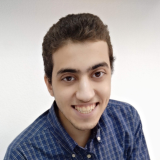
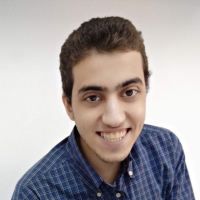
Update profile.png

Changed region(s): [[0.0, 0.0625, 1.0, 1.0]]

diff --git a/css/style.css b/css/style.css
@@ -5,6 +5,7 @@
   font-weight: normal;
   font-style: normal;
 }
+
 /* =======================================================
 *
 * 	Template Style 
@@ -26,6 +27,7 @@ body {
   background-attachment: fixed;
   background-repeat: no-repeat;
 }
+
 @media screen and (max-width: 768px) {
   body {
     background-position: center center;
@@ -39,7 +41,10 @@ a {
   -o-transition: 0.5s;
   transition: 0.5s;
 }
-a:hover, a:active, a:focus {
+
+a:hover,
+a:active,
+a:focus {
   color: #757575;
   outline: none;
 }
@@ -48,7 +53,12 @@ p {
   margin-bottom: 1.5em;
 }
 
-h1, h2, h3, h4, h5, h6 {
+h1,
+h2,
+h3,
+h4,
+h5,
+h6 {
   color: #fff;
   font-family: "Source Sans Pro", Arial, sans-serif;
   font-weight: 400;
@@ -85,6 +95,7 @@ h1, h2, h3, h4, h5, h6 {
   -o-transition: 0.5s;
   transition: 0.5s;
 }
+
 @media screen and (max-width: 768px) {
   #fh5co-main {
     margin: 2em .5em 5em .5em;
@@ -94,6 +105,7 @@ h1, h2, h3, h4, h5, h6 {
 .fh5co-tab-wrap {
   position: relative;
 }
+
 .fh5co-tab-wrap .fh5co-tab-menu {
   list-style: none;
   text-align: center;
@@ -103,11 +115,13 @@ h1, h2, h3, h4, h5, h6 {
   padding: 0;
   margin: 0;
 }
+
 @media screen and (max-width: 768px) {
   .fh5co-tab-wrap .fh5co-tab-menu {
     top: -7px;
   }
 }
+
 .fh5co-tab-wrap .fh5co-tab-menu li {
   display: -moz-inline-stack;
   display: inline-block;
@@ -117,6 +131,7 @@ h1, h2, h3, h4, h5, h6 {
   padding: 0;
   margin: 0;
 }
+
 .fh5co-tab-wrap .fh5co-tab-menu li a {
   padding: 2em 1em 1em 1em;
   position: relative;
@@ -130,6 +145,7 @@ h1, h2, h3, h4, h5, h6 {
   -o-transition: 0.3s;
   transition: 0.3s;
 }
+
 .fh5co-tab-wrap .fh5co-tab-menu li a .icon {
   display: block;
   position: relative;
@@ -139,22 +155,26 @@ h1, h2, h3, h4, h5, h6 {
   -o-transition: 0.3s;
   transition: 0.3s;
 }
+
 .fh5co-tab-wrap .fh5co-tab-menu li a .menu-text {
   display: block;
   -webkit-transition: 0.5s;
   -o-transition: 0.5s;
   transition: 0.5s;
 }
+
 @media screen and (max-width: 768px) {
   .fh5co-tab-wrap .fh5co-tab-menu li a .menu-text {
     display: none;
   }
 }
+
 @media screen and (max-width: 768px) {
   .fh5co-tab-wrap .fh5co-tab-menu li a {
     padding: 1em .5em .5em .5em;
   }
 }
+
 .fh5co-tab-wrap .fh5co-tab-menu li a:after {
   position: absolute;
   content: "";
@@ -174,36 +194,45 @@ h1, h2, h3, h4, h5, h6 {
   -ms-border-radius: 7px;
   border-radius: 7px;
 }
+
 .fh5co-tab-wrap .fh5co-tab-menu li a:hover {
   color: #fff;
   text-decoration: none;
 }
+
 .fh5co-tab-wrap .fh5co-tab-menu li a:hover .icon {
   bottom: 10px;
 }
+
 @media screen and (max-width: 768px) {
   .fh5co-tab-wrap .fh5co-tab-menu li a:hover .icon {
     bottom: 0px;
   }
 }
+
 .fh5co-tab-wrap .fh5co-tab-menu li a:hover:after {
   height: 100%;
 }
+
 .fh5co-tab-wrap .fh5co-tab-menu li.active .icon {
   bottom: 10px;
 }
+
 @media screen and (max-width: 768px) {
   .fh5co-tab-wrap .fh5co-tab-menu li.active .icon {
     bottom: 0px;
   }
 }
-.fh5co-tab-wrap .fh5co-tab-menu li.active > a {
+
+.fh5co-tab-wrap .fh5co-tab-menu li.active>a {
   color: #fff;
   text-decoration: none;
 }
-.fh5co-tab-wrap .fh5co-tab-menu li.active > a:after {
+
+.fh5co-tab-wrap .fh5co-tab-menu li.active>a:after {
   height: 100%;
 }
+
 .fh5co-tab-wrap .fh5co-tab-content {
   padding-left: 4em;
   padding-right: 4em;
@@ -213,22 +242,26 @@ h1, h2, h3, h4, h5, h6 {
   visibility: hidden;
   width: 100%;
 }
+
 @media screen and (max-width: 768px) {
   .fh5co-tab-wrap .fh5co-tab-content {
     padding-left: .5em;
     padding-right: .5em;
   }
 }
+
 .fh5co-tab-wrap .fh5co-tab-content.active {
   opacity: 1;
   visibility: visible;
 }
+
 .fh5co-tab-wrap .fh5co-tab-content .fh5co-content-inner {
   padding: 7em 2em 5em 2em;
   float: left;
   width: 100%;
   position: relative;
 }
+
 @media screen and (max-width: 768px) {
   .fh5co-tab-wrap .fh5co-tab-content .fh5co-content-inner {
     padding: 4em .5em 5em .5em;
@@ -247,32 +280,38 @@ figure {
   padding: 0;
   line-height: .7;
 }
+
 .fh5co-counter .fh5co-number.fh5co-left {
   float: left;
   width: 30%;
 }
+
 @media screen and (max-width: 768px) {
   .fh5co-counter .fh5co-number.fh5co-left {
     width: 100%;
     line-height: 1.2;
   }
 }
+
 .fh5co-counter .fh5co-text {
   float: right;
   text-align: left;
   width: 70%;
 }
+
 @media screen and (max-width: 768px) {
   .fh5co-counter .fh5co-text {
     width: 100%;
     text-align: center;
   }
 }
+
 .fh5co-counter .fh5co-text h3 {
   margin: 0;
   padding: 0;
   position: relative;
 }
+
 .fh5co-counter .fh5co-text h3.border-bottom:after {
   content: "";
   width: 50px;
@@ -283,6 +322,7 @@ figure {
   margin: 0;
   text-align: center;
 }
+
 .fh5co-social li {
   padding: 0;
   margin: 0;
@@ -292,6 +332,7 @@ figure {
   zoom: 1;
   *display: inline;
 }
+
 .fh5co-social li a {
   font-size: 22px;
   color: #fff;
@@ -305,15 +346,20 @@ figure {
   -ms-border-radius: 7px;
   border-radius: 7px;
 }
+
 @media screen and (max-width: 768px) {
   .fh5co-social li a {
     padding: 10px 8px;
   }
 }
+
 .fh5co-social li a:hover {
   color: #3F51B5;
 }
-.fh5co-social li a:hover, .fh5co-social li a:active, .fh5co-social li a:focus {
+
+.fh5co-social li a:hover,
+.fh5co-social li a:active,
+.fh5co-social li a:focus {
   outline: none;
   text-decoration: none;
 }
@@ -323,40 +369,49 @@ figure {
   width: 100%;
   float: left;
 }
+
 .fh5co-feature .fh5co-icon {
   float: left;
   width: 10%;
   display: block;
   margin-top: 5px;
 }
+
 .fh5co-feature .fh5co-icon i {
   color: #3F51B5;
   font-size: 40px;
 }
+
 .fh5co-feature .fh5co-text {
   float: right;
   width: 82%;
 }
+
 @media screen and (max-width: 768px) {
   .fh5co-feature .fh5co-text {
     width: 82%;
   }
 }
+
 @media screen and (max-width: 480px) {
   .fh5co-feature .fh5co-text {
     width: 72%;
   }
 }
-.fh5co-feature .fh5co-text h2, .fh5co-feature .fh5co-text h3 {
+
+.fh5co-feature .fh5co-text h2,
+.fh5co-feature .fh5co-text h3 {
   margin: 0;
   padding: 0;
 }
+
 .fh5co-feature .fh5co-text h3 {
   font-weight: 300;
   margin-bottom: 10px;
   color: rgba(255, 255, 255, 0.8);
   font-size: 20px;
 }
+
 .fh5co-feature .fh5co-text h2 {
   font-size: 16px;
   letter-spacing: 2px;
@@ -371,6 +426,7 @@ figure {
   position: relative;
   text-align: center;
 }
+
 .chart span {
   position: absolute;
   top: 50%;
@@ -378,9 +434,11 @@ figure {
   margin-top: -30px;
   width: 100%;
 }
+
 .chart span strong {
   display: block;
 }
+
 .chart canvas {
   position: absolute;
   left: 0;
@@ -399,12 +457,15 @@ figure {
   padding: 20px 20px;
   line-height: 1.2;
 }
+
 #fh5co-footer small {
   font-size: 14px;
 }
+
 #fh5co-footer .fh5co-author {
   display: block;
 }
+
 @media screen and (max-width: 768px) {
   #fh5co-footer .fh5co-author {
     display: -moz-inline-stack;
@@ -424,6 +485,7 @@ figure {
 .row-bottom-padded-lg {
   padding-bottom: 7em;
 }
+
 @media screen and (max-width: 768px) {
   .row-bottom-padded-lg {
     padding-bottom: 1em;
@@ -433,6 +495,7 @@ figure {
 .row-bottom-padded-md {
   padding-bottom: 4em;
 }
+
 @media screen and (max-width: 768px) {
   .row-bottom-padded-md {
     padding-bottom: 1em;
@@ -442,6 +505,7 @@ figure {
 .row-bottom-padded-sm {
   padding-bottom: 1em;
 }
+
 @media screen and (max-width: 768px) {
   .row-bottom-padded-sm {
     padding-bottom: 1em;
@@ -450,6 +514,8 @@ figure {
 
 #profile-img {
   border-radius: 16px;
+  width: 160px;
+  height: 160px;
 }
 
 #about {
